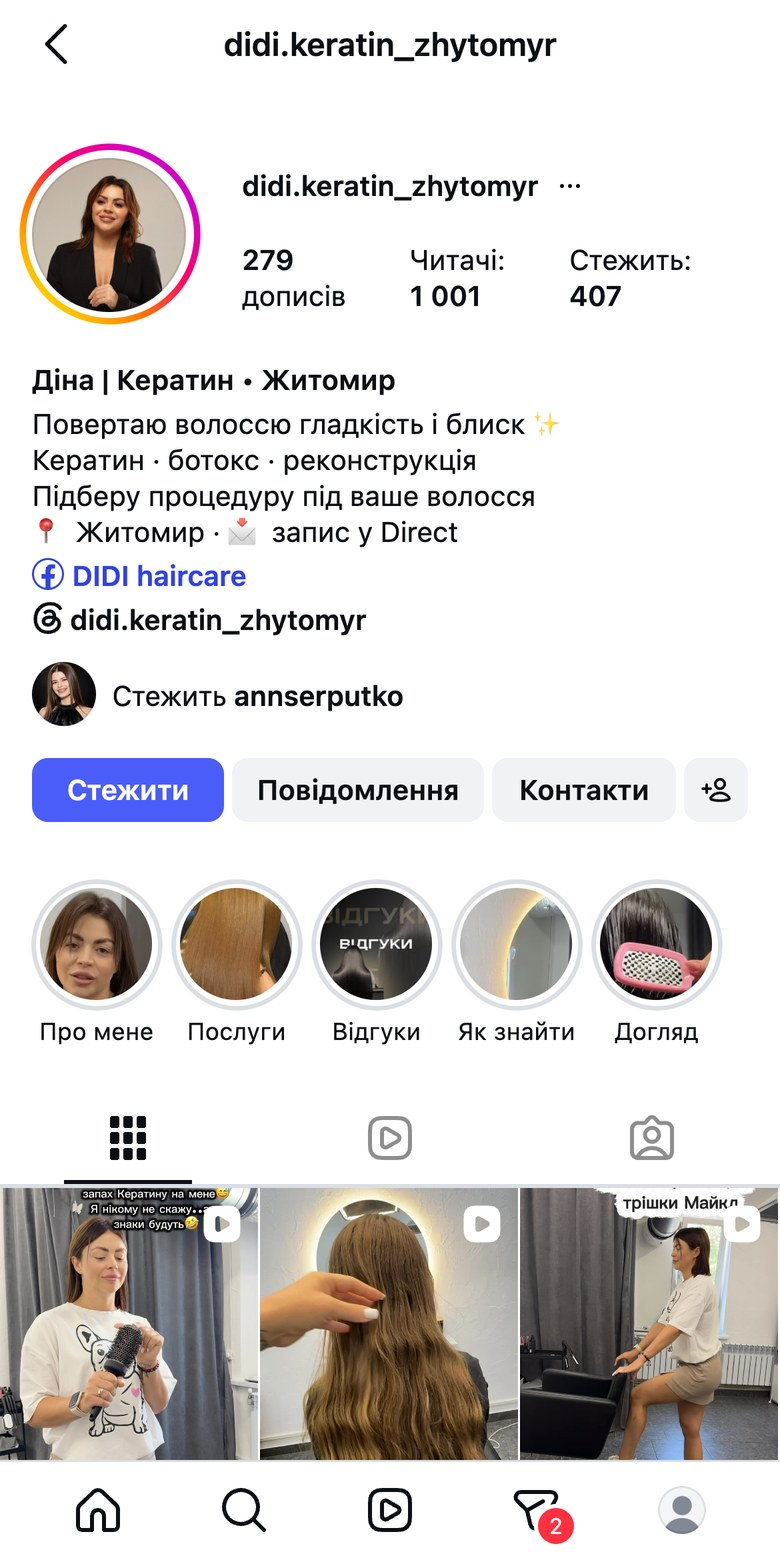
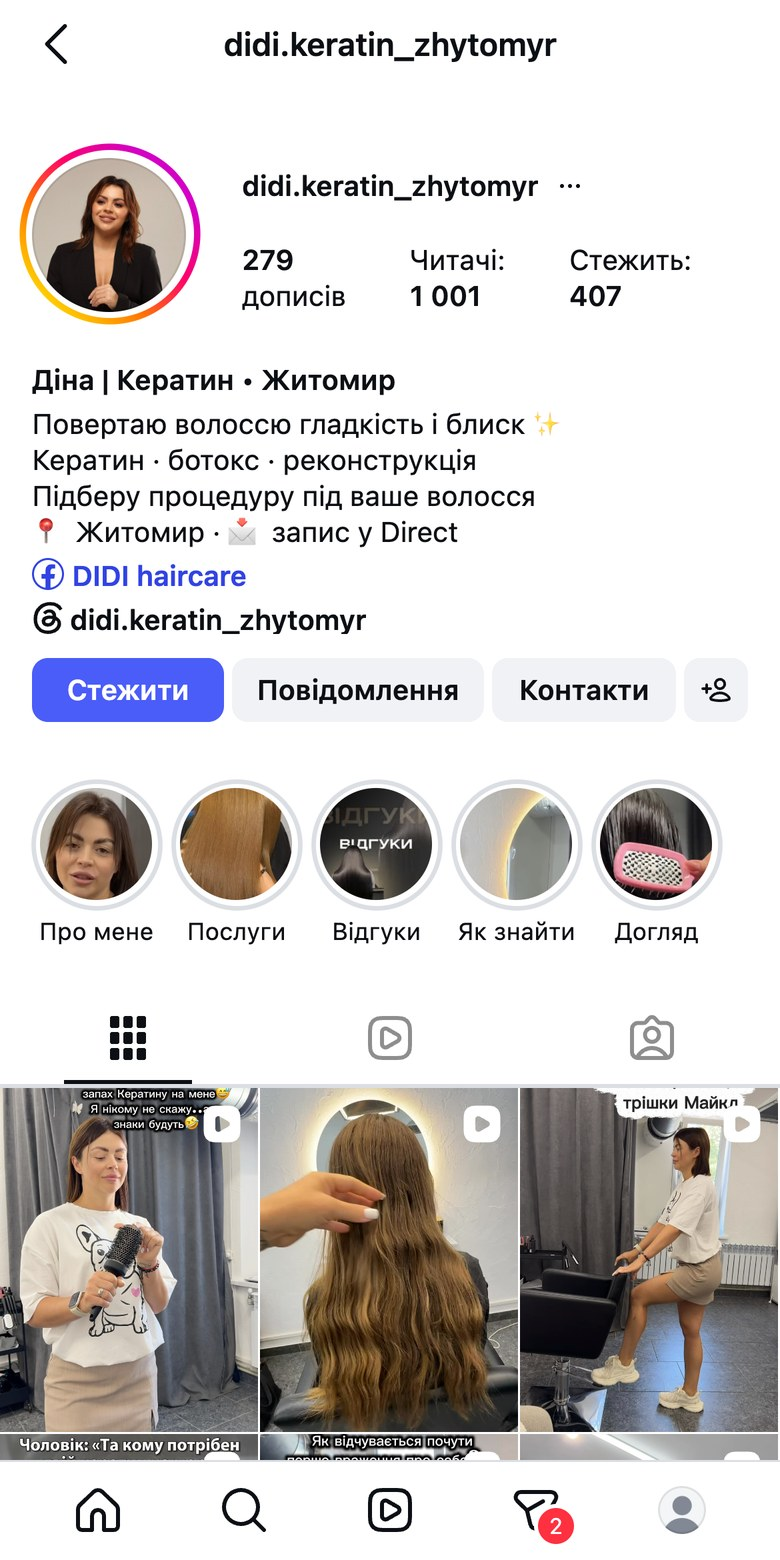
Прибрано рядок переглядача з екранів профілю, уточнено блок про біо

diff --git a/index.html b/index.html
@@ -180,7 +180,7 @@ footer{padding:36px 0 60px;color:var(--muted);font-size:13px;border-top:1px soli
   <div class="kicker">Що вже добре</div>
   <h2>На цьому будуємо</h2>
   <div class="good">
-    <div><h3>Шапка відповідає на головне</h3><p>Що ви робите, де, який результат і як записатися (через Direct). Заклик один, людина не губиться між кнопками.</p></div>
+    <div><h3>У біо вже є основа</h3><p>Послуги, місто і запис через Direct уже названі в шапці. Що варто додати й оновити, показуємо в пункті 04.</p></div>
     <div><h3>Ваша харизма вже працює</h3><p>17 з 22 рілсів, де ви в кадрі з гумором, набрали більше за медіану акаунта. Танець «трішки Майкл» зібрав 4 129 переглядів.</p></div>
     <div><h3>Був стабільний ритм</h3><p>48 публікацій з квітня по липень. Звичка знімати є, і сторіс ви ведете досі. Стрічку треба лише повернути.</p></div>
     <div><h3>Один впізнаваний салон</h3><p>Кругле дзеркало з підсвіткою і світлі стіни повторюються з рілса в рілс. Результат на волоссі видно на однаковому фоні.</p></div>
